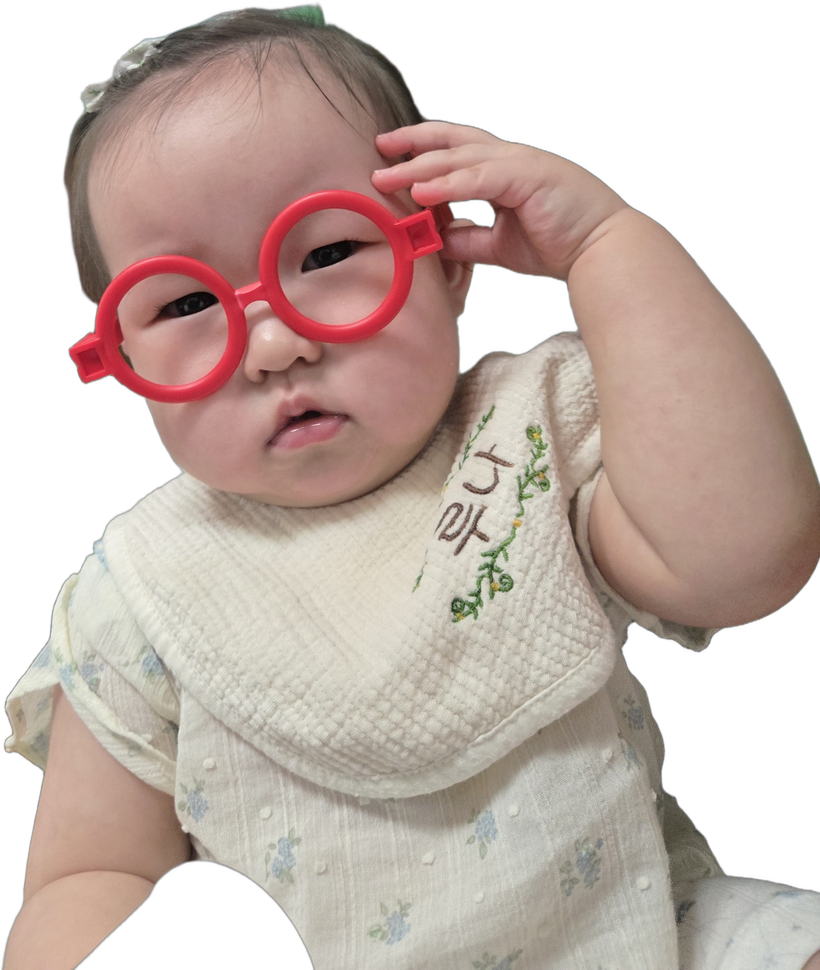
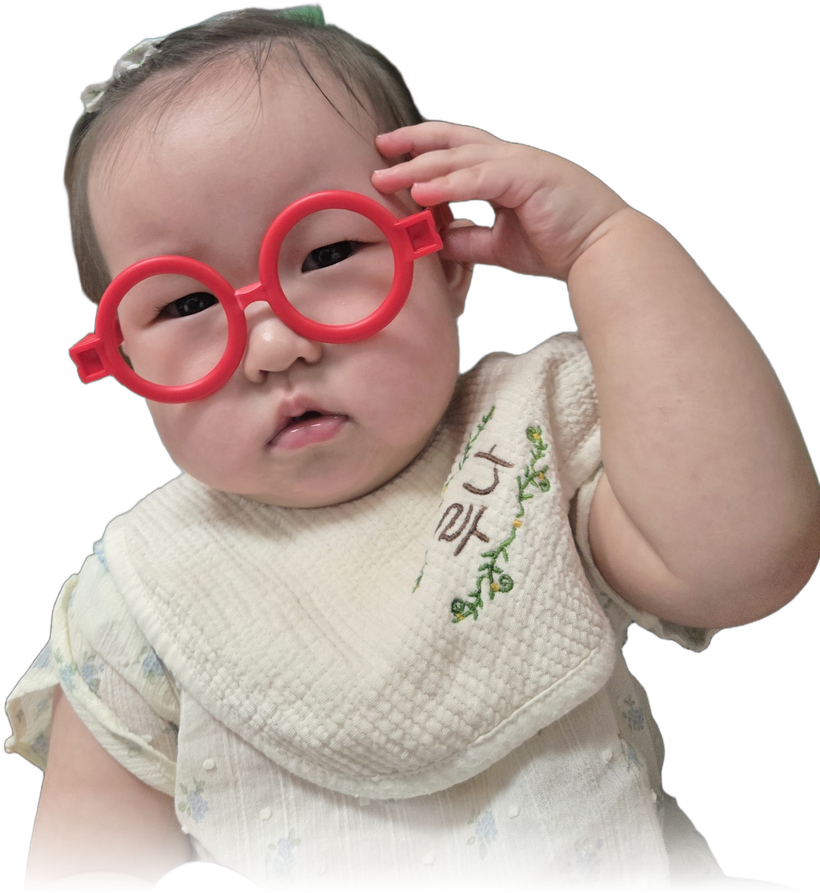
돌잡이 사진 아래를 잘라 흐리고, 좌우로 고르게 꺾이도록 함
아래쪽 다리 부분을 잘라 내고 잘린 자리가 안 보이도록 서서히 투명하게 했습니다.
움직임은 선 자세(17도)를 가운데 두고 좌우로 6도씩, 11도와 23도를 오갑니다.

Claude-Session: https://claude.ai/code/session_01TiyVSeaVSo8nLGM5KmGgf4

diff --git a/slides.html b/slides.html
@@ -105,25 +105,26 @@ p, h1, h2 { margin: 0; }
 
 /* 돌잡이 결과 · 고민하는 아이 */
 .think {
-  height: min(46vh, calc(var(--u) * 34));
+  /* 사진 아래를 잘라 낸 만큼(8%) 높이도 줄여서, 화면에 보이는 크기는 그대로입니다 */
+  height: min(42vh, calc(var(--u) * 31));
   width: auto;
   margin-top: calc(var(--u) * .4);
-  /* 20도쯤 돌리면 아래쪽이 그만큼 밖으로 나와서, 색 띠가 가리지 않도록 자리를 비워 둡니다 */
-  margin-bottom: calc(var(--u) * 3);
+  /* 돌리면 아래쪽이 그만큼 밖으로 나와서, 색 띠를 가리지 않도록 자리를 비워 둡니다 */
+  margin-bottom: calc(var(--u) * 2.4);
   filter: drop-shadow(0 calc(var(--u) * .6) calc(var(--u) * 1.2) rgba(51, 46, 42, .16));
   /* 엉덩이를 축으로 삼아야 머리가 갸웃거리는 것처럼 보입니다 */
   transform-origin: 50% 88%;
 }
 /* 그 장이 나올 때부터 좌우로 갸웃거립니다.
    step-end 를 써서 두 자세 사이를 미끄러지지 않고 딱딱 건너뜁니다 (옛날 gif 느낌).
-   원본 사진이 왼쪽으로 20도쯤 기울어 있어서, 오른쪽으로 20도 돌린 자리를
-   똑바로 선 자세로 보고 그 좌우로 3도씩 움직입니다. */
+   원본 사진이 왼쪽으로 20도쯤 기울어 있어서, 오른쪽으로 17도 돌린 자리를
+   똑바로 선 자세로 보고 그 좌우로 6도씩 꺾습니다. */
 .slide.is-on .think { animation: think-rock 2s step-end infinite; }
 @keyframes think-rock {
   /* 돌리면 무게가 오른쪽으로 쏠려서, 가운데로 보이도록 살짝 왼쪽으로 당겨 둡니다 */
-  0%   { transform: translateX(calc(var(--u) * -.9)) rotate(17deg); }
-  50%  { transform: translateX(calc(var(--u) * -1.2)) rotate(23deg); }
-  100% { transform: translateX(calc(var(--u) * -.9)) rotate(17deg); }
+  0%   { transform: translateX(calc(var(--u) * -.75)) rotate(11deg); }
+  50%  { transform: translateX(calc(var(--u) * -1.25)) rotate(23deg); }
+  100% { transform: translateX(calc(var(--u) * -.75)) rotate(11deg); }
 }
 /* 화면 움직임을 꺼 둔 분에게는 가만히 있게 합니다 */
 @media (prefers-reduced-motion: reduce) {

diff --git a/make-pptx.py b/make-pptx.py
@@ -239,7 +239,7 @@ def build(venue_name, v, out):
     if THINK.exists():
         # 배경을 지운 사진이라 아이보리 위에 그대로 올려 놓습니다
         th_h = Inches(4.15)
-        th_w = Emu(int(th_h * 820 / 970))
+        th_w = Emu(int(th_h * 820 / 893))
         s.shapes.add_picture(str(THINK), W // 2 - th_w // 2, Inches(2.35), th_w, th_h)
         band(s, Inches(6.85))
     else:
